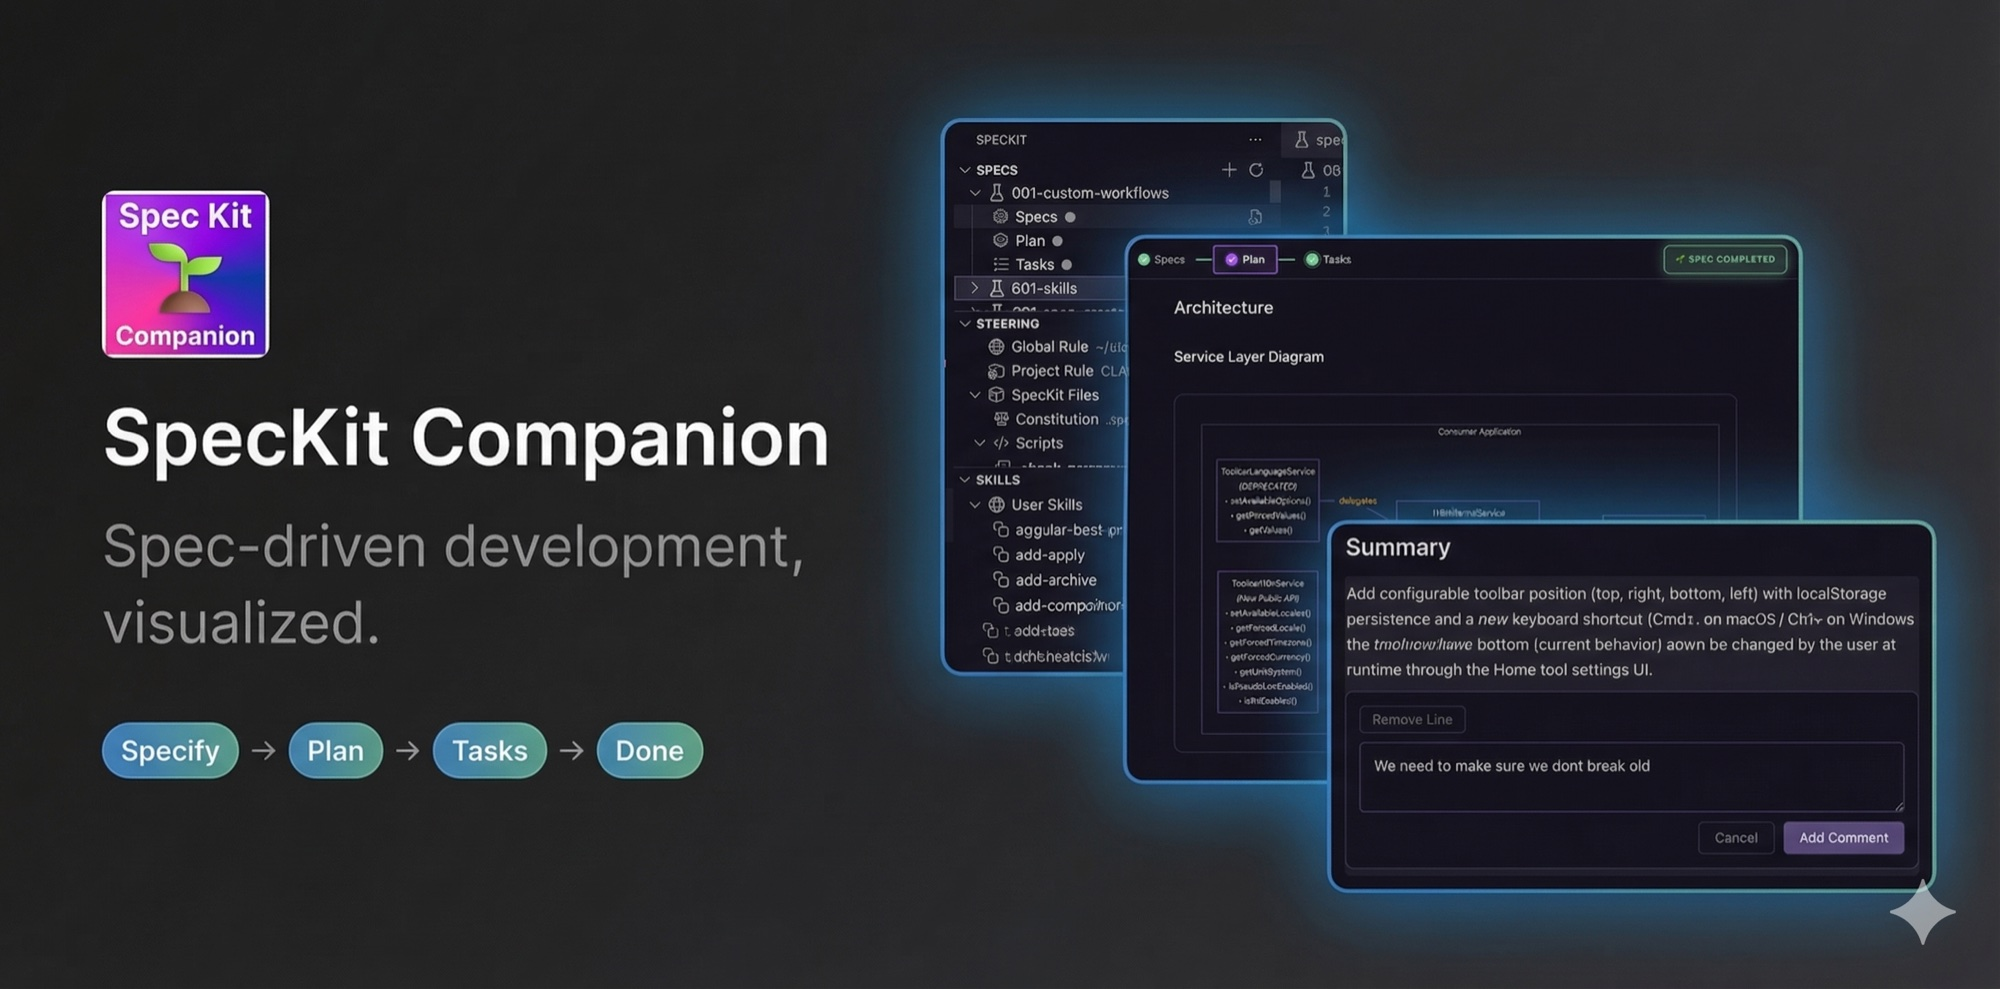
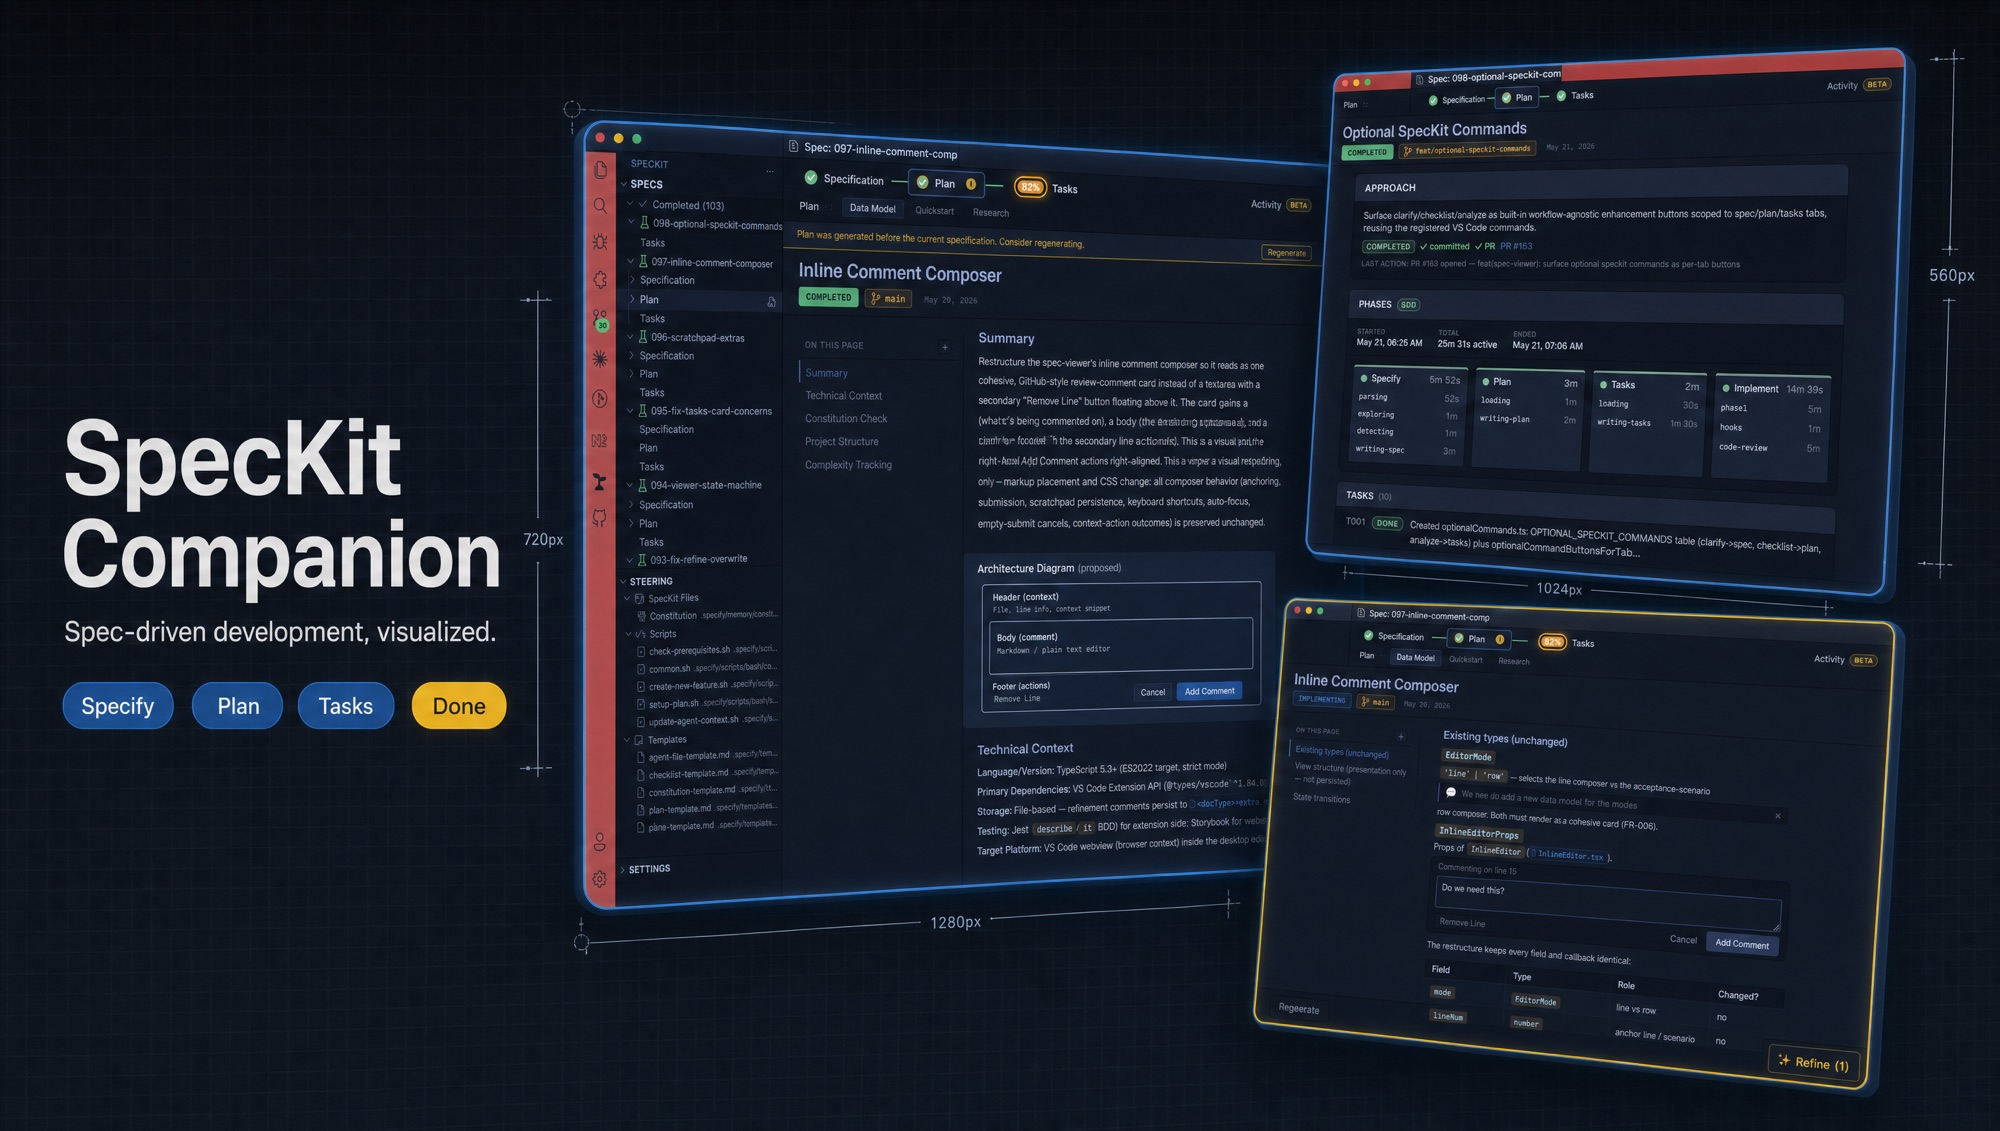
docs(readme): refresh screenshots to current viewer UI + lean image set (#174)
* docs(readme): refresh screenshots to current viewer UI, lean image set + AI hero

The README screenshots predated the viewer's facelift (title-leading header,
color-coded badges, TOC sidebar, children rail, footer state machine, Activity
panel) and over-showed the viewer in four near-identical phase shots.

- Replace the stale set with a lean four: viewer, comments, activity, create-spec.
- New AI-generated hero (hero.jpg) in the brand art-direction style.
- Add docs/screenshots/CAPTURE.md (capture standardization), hero/PROMPT.md +
  hero/README.md (hero regeneration), and VIDEO-PROMPT.md (feature-video brief).
- Tighten README: condense "Reading Specs", add an Activity Panel section, make
  Spec-Driven Phases text-only, fold the sidebar into the viewer shot.
- Remove 13 now-unreferenced screenshots.

* docs(readme): drop VIDEO-PROMPT.md (video approach deferred)

Keep hero/PROMPT.md for regenerating the hero; the demo video is on hold.

---------

Pull request: docs(readme): refresh screenshots to current viewer UI + lean image set
## Summary
- Replace stale README screenshots (Mar/Jan, predating the modern viewer — title-leading header, color badges, TOC sidebar, children rail, footer state machine, Activity panel) with a **lean four-shot set**: `viewer`, `comments`, `activity`, `create-spec`.
- New **AI-generated hero** (`hero.jpg`) in the brand art-direction style (dark blueprint, blue/yellow, no purple).
- Add reproducibility docs: `docs/screenshots/CAPTURE.md` (capture standardization), `hero/PROMPT.md` + `hero/README.md` (hero regeneration), `VIDEO-PROMPT.md` (feature-video brief).
- Tighten README copy: condense "Reading Specs", add an **Activity Panel** section, make Spec-Driven Phases text-only, fold the sidebar into the viewer shot.
- Remove **13** now-unreferenced screenshots.

## Test plan
- [ ] README preview renders every image; no broken links
- [ ] Screenshots look uniform (Dark Modern theme, consistent crops)
- [ ] Hero reads well at GitHub render width

🤖 Generated with [Claude Code](https://claude.com/claude-code)

diff --git a/docs/screenshots/CAPTURE.md b/docs/screenshots/CAPTURE.md
@@ -1,0 +1,95 @@
+# Screenshot capture guide
+
+How to capture and standardize every screenshot in the README so the set stays
+uniform and professional. The goal is **clean raw frames**: same theme, same
+zoom, same widths, cropped tight, no decoration.
+
+Follow this whenever a screenshot is retaken so the README never drifts into a
+mismatched collage again.
+
+## Environment (set once, identically for every shot)
+
+| Setting | Value | Why |
+|---------|-------|-----|
+| Color theme | **Dark Modern** (VS Code default) | Matches the extension's tested CSS variables; familiar to most users |
+| Display | Retina / HiDPI (`@2x`) | Crisp text when scaled down in the README |
+| Editor zoom | `Cmd+=` **twice** from default (reset first with `Cmd+0`) | Legible UI text at README render width — keep it identical across shots |
+| Minimap | Off (`editor.minimap.enabled: false`) | Removes clutter |
+| Breadcrumbs | Off (`breadcrumbs.enabled: false`) | Removes clutter |
+| Status bar | Off for panel-only crops (`workbench.statusBar.visible: false`) | Removes clutter |
+| Open editor tabs | Close all but the one in shot | No stray tabs in frame |
+| Activity bar | Keep visible only when it's part of the shot (sidebar overview) | Context where relevant |
+| Primary sidebar width | Fixed — drag to a consistent width and don't change between shots | Uniform sidebar proportions |
+
+Capture in the **Extension Development Host** (`F5`), not a packaged install, so
+you're shooting the current working tree.
+
+## Dimensions (display width)
+
+Crop tight to the relevant panel — no desktop wallpaper, no empty editor gutter.
+
+| Tier | Display width | Shots |
+|------|---------------|-------|
+| Full viewer | **~1600px** | `viewer`, `comments`, `activity` |
+| Narrow | **~900px** | `create-spec` |
+| Hero | **2000 × 989** | `hero.jpg` (AI-generated — see `hero/PROMPT.md`) |
+
+Captured at `@2x` these are ~3200px / ~1800px source pixels; that's expected.
+
+## Format & optimization
+
+- **PNG** (lossless) for all UI shots; **JPG** only for `hero.jpg`.
+- Optimize before committing so files stay small:
+  ```bash
+  oxipng -o max docs/screenshots/*.png      # or: pngquant --quality=80-95 ...
+  ```
+- Canonical filenames: `viewer.png`, `comments.png`, `activity.png`,
+  `create-spec.png`, `hero.jpg`, `demo.gif` / `demo.mp4`. Delete the old set
+  (`workflow-*`, `specify-*`, `sidebar-overview`, `inline-comment-*`,
+  `other-views`, `specs-tree`) once the new files land.
+
+## Content source (use the committed demo fixtures)
+
+Drive every viewer shot from the pinned demo fixtures so the rendered content is
+realistic and identical on every retake:
+
+| Fixture | State | Use for |
+|---------|-------|---------|
+| `specs/_01_demo-planned` | `planned` (spec.md + plan.md) — branch `demo/planned` | `viewer` (Plan phase + children-rail chips + diagram), `comments` |
+| `specs/_02_demo-tasked` | `ready-to-implement` (+ tasks.md) — branch `demo/tasked` | `activity` |
+
+> **Do NOT `git add` changes to these three dirs.** Capturing mutates their
+> `.spec-context.json` / files. After you're done, restore the baseline:
+> ```bash
+> git restore specs/_00_demo-specified specs/_01_demo-planned specs/_02_demo-tasked
+> ```
+
+## Per-shot recipe
+
+Each must show the **current** UI (title-leading header, color badge, branch
+chip, step tabs, children rail, TOC, footer state machine).
+
+| File | Open | Frame must include |
+|------|------|--------------------|
+| `viewer.png` | `_01_demo-planned` viewer, Plan tab — **sidebar visible** | Specs sidebar + viewer together; title-leading header + `Planned` badge + `demo/planned` chip + date pill; Spec/Plan/Tasks tabs; children-rail chips (data-model / research / quickstart); the architecture/mermaid diagram; next-step **Tasks** footer |
+| `comments.png` | `_01_demo-planned` viewer, hover a line, click `+` | GitHub-style comment card mid-use: context header, textarea with text, footer (secondary action left / Cancel + Add Comment right) |
+| `activity.png` | `_02_demo-tasked`, toggle **Activity** | Phases timeline + Approach / Tasks / Review-comments cards |
+| `create-spec.png` | `+` New Spec | Title, **Load Template**, **Workflow** picker, description + char counter, **Attach Image**, footer Cancel / **Auto Mode** / Submit |
+
+These four also feed the AI assets: `viewer` + `comments` + `activity` are the
+three hero inputs (`hero/PROMPT.md`), and the resulting `hero.jpg` seeds the demo
+video (`VIDEO-PROMPT.md`).
+
+## Hero & video
+
+`hero.jpg` and `demo.gif`/`demo.mp4` are **AI-generated**, not captured. Build the
+hero from the three shots above via `hero/PROMPT.md`, then seed the video from
+`hero.jpg` via `VIDEO-PROMPT.md`.
+
+## Checklist before committing
+
+- [ ] All shots use Dark Modern at the same zoom.
+- [ ] Widths match the tier table; cropped tight.
+- [ ] Canonical filenames; old set deleted.
+- [ ] PNGs optimized; hero shows no purple; video loops cleanly.
+- [ ] `git status` shows **no** staged changes under the demo fixtures.

diff --git a/README.md b/README.md
@@ -18,7 +18,7 @@ The spec workspace for developers running AI agents through Spec-Driven Developm
 
 ## Why it exists
 
-**Review AI-generated specs the way you review code.** Add inline comments on specific lines, refine requirements, and catch a vague requirement before the AI turns it into 200 lines of wrong code. Every comment you submit is also captured as a markdown entry in a per-document scratchpad, so the history is durable across sessions.
+**Review AI-generated specs the way you review code.** Add inline comments on specific lines, refine requirements, and catch a vague requirement before the AI turns it into 200 lines of wrong code. Every comment persists to the spec's `.spec-context.json` the moment you add it, so an in-progress review is durable across sessions and committable to source control.
 
 **Plug any AI assistant into any spec-driven workflow.** Eight providers ship today (Claude Code, Gemini, GitHub Copilot, Codex, Qwen, OpenCode, IDE Chat, Claude in VS Code), and the workflow engine accepts custom phases, commands, and sub-documents. Drop in [Agent Teams Lite](https://github.com/Gentleman-Programming/agent-teams-lite), your own SDD process, or anything that takes commands and produces markdown.
 
@@ -30,14 +30,14 @@ The spec workspace for developers running AI agents through Spec-Driven Developm
 
 Guide your features through structured phases with a dedicated editor that renders markdown specs, shows phase progress, and provides one-click actions for each step. Mermaid diagrams render inline with zoom controls for navigating complex diagrams. After each action, a toast confirms the result and the viewer auto-advances to the next phase.
 
-![Workflow Editor](https://raw.githubusercontent.com/alfredoperez/speckit-companion/main/docs/screenshots/workflow-spec.png)
-*Workflow editor. One click moves a feature from Specify to Plan to Tasks to Done. Markdown stays in your repo, never on a server.*
+![Spec viewer](https://raw.githubusercontent.com/alfredoperez/speckit-companion/main/docs/screenshots/viewer.png)
+*The spec viewer. Step tabs, sub-document chips, an inline diagram, and a footer button that advances Specify → Plan → Tasks → Done. Markdown stays in your repo, never on a server.*
 
 ### Inline Review Comments
 
 Review spec documents with inline comments. Add feedback directly on specific lines, refine requirements, and collaborate on specs before implementation begins. Each comment is **persisted to the spec's `.spec-context.json` the moment you add or remove it** — not only when you refine — so an in-progress review survives closing the tab, is committable, and can be picked up later (next session, another machine, or another reviewer after a pull). When you click the **Refine** button, that document's pending comments are dispatched to the AI for a direct, in-place edit of the source and then marked *applied* (kept as history — no separate files).
 
-![Inline Comments](https://raw.githubusercontent.com/alfredoperez/speckit-companion/main/docs/screenshots/inline-comment-dialog.png)
+![Inline Comments](https://raw.githubusercontent.com/alfredoperez/speckit-companion/main/docs/screenshots/comments.png)
 *Inline review comments. Catch a vague requirement on line 12 before the AI turns it into 200 lines of wrong code.*
 
 ### Persistent, Resumable Comments
@@ -55,22 +55,12 @@ Create new specs with a dedicated dialog. Write a detailed description, select y
 
 ### Spec-Driven Phases
 
-Each feature flows through four phases:
+Each feature flows through four phases, each a one-click footer action in the viewer above:
 
-**Specify**: Define requirements with user stories and acceptance scenarios.
-
-![Spec Phase](https://raw.githubusercontent.com/alfredoperez/speckit-companion/main/docs/screenshots/specify-spec.png)
-*Specify phase. User stories, acceptance scenarios, and edge cases captured before any code is written.*
-
-**Plan**: Create the technical design with research, data models, and implementation strategy.
-
-![Plan Phase](https://raw.githubusercontent.com/alfredoperez/speckit-companion/main/docs/screenshots/workflow-plan.png)
-*Plan phase. Architecture, data models, and research grouped under a single step with sub-document chips.*
-
-**Tasks**: Generate an implementation checklist with progress tracking and parallel execution markers.
-
-![Tasks Phase](https://raw.githubusercontent.com/alfredoperez/speckit-companion/main/docs/screenshots/workflow-tasks.png)
-*Tasks phase. Generated checklist with parallel-execution markers and live progress.*
+- **Specify** — define requirements with user stories and acceptance scenarios before any code is written.
+- **Plan** — create the technical design: architecture, data models, and research, grouped under one step with sub-document chips.
+- **Tasks** — generate an implementation checklist with parallel-execution markers and live progress.
+- **Done** — mark the spec complete (or archive it) once implementation lands.
 
 ### Reading Specs
 
@@ -83,9 +73,23 @@ The spec viewer is built for fast scanning of long-form specs:
 - **Table of contents**: sticky outline column on the left of the content area. Defaults to h2-only (so phase-heavy `tasks.md` reads as a clean ~7-entry list); a small `+` toggle expands h3 subsections when needed. Auto-hides on narrow panes.
 - **Quiet content**: when the structured header has the metadata, in-content duplicates (the `Input:` block, repeated branch chips, literal `Slug:`/`Date:` paragraphs) are suppressed so the body is just the spec content.
 - **Diagrams**: wide mermaid diagrams scroll horizontally inside the prose column instead of bleeding past it. Each diagram has its own `−` / Reset / `+` zoom controls.
-- **Activity panel**: an `Activity` toggle on the right side of the navigation bar swaps the markdown pane for a card-stack overview of everything `.spec-context.json` carries — *Approach* (one-line strategy + status pill + PR link + commit/PR checkpoints + last action), *Phases* (a horizontal timeline with an overall *started · total · ended* header, per-step duration, and per-substep timing; the author badge shows once at spec start), *Tasks* (per-`T###` status, summary, file chips, inline concerns), *Decisions*, *Concerns*, *Review comments* (every persisted comment grouped by document with a pending/applied status badge, jump-to-line, and a per-document **Run refinement** button), and *Files touched* (clickable). Each card hides itself when its data is missing, so a lean speckit-style spec collapses to just *Phases*. Visibility is gated by the `speckit.viewer.activityPanel` setting — `"off"` (hide toggle), `"beta"` (default; toggle shows a *beta* pill), `"on"` (toggle without the pill). The Phases card derives all timing from the transition log and reports **active time** — gaps longer than a few minutes between recorded activity are treated as idle and capped, so an overnight pause doesn't inflate a step's elapsed time. Completed phases show real durations, the terminal phase finalizes (no longer reads as in-flight forever), the in-flight step pulses, per-step start dates appear only on multi-day specs, and repeated substeps (e.g. the implement loop's `phase1`) collapse to one row. While Activity is open, the stale sub-document sub-navigation row is hidden.
-- **Quiet, intentional footer**: the viewer footer surfaces only what fits the current moment. When a step is idle it shows `Regenerate` and a forward button labelled with the next phase (`Plan` / `Tasks` / `Implement` / `Complete`). **While a step is generating, the forward button is disabled and reads `Generating <step>…` with a spinner** — it only re-enables to the next phase once that step's artifact actually lands on disk (a content check, not just the click), so the footer never advances ahead of the work. A `Mark step complete` button and a recovery timeout keep it from getting stuck if auto-detection never fires. `Archive` and `Mark Completed` only appear once the spec reaches a closure-eligible stage (`ready-to-implement` and beyond), and the SDD `Auto` button has moved to the **Create New Spec** form (next to `Submit`) so it's the explicit first-time choice rather than a viewer-side surprise. The `Edit Source` button is gone too — use the sidebar's inline `Open Source File` action instead. See [`docs/viewer-states.md`](./docs/viewer-states.md) for the full footer state matrix.
-- **Optional SpecKit commands per tab**: SpecKit's three optional refinement commands surface as one-click footer buttons on the tab where each is most useful — **Clarify** on the Spec tab, **Checklist** on the Plan tab, and **Analyze** on the Tasks tab (right before implementing). They require no configuration, sit alongside any custom-command buttons you've defined, and run the same command you'd get from the Command Palette. A custom command with the same id takes precedence so your overrides always win. Once the spec reaches the closure gate (the footer is offering **Mark Completed** / **Reactivate**), these refinement buttons disappear — there's nothing left to refine.
+- **Activity panel**: an `Activity` toggle swaps the markdown pane for a card-stack overview of everything `.spec-context.json` carries. See [Activity Panel](#activity-panel) below.
+- **Quiet, intentional footer**: the footer surfaces only what fits the moment — `Regenerate` plus a forward button labelled with the next phase (`Plan` / `Tasks` / `Implement` / `Complete`). While a step generates, that button is disabled and reads `Generating <step>…` until the artifact actually lands on disk, so the footer never advances ahead of the work. `Archive` and `Mark Completed` appear only once the spec is closure-eligible (`ready-to-implement` and beyond). See [`docs/viewer-states.md`](./docs/viewer-states.md) for the full footer state matrix.
+- **Optional SpecKit commands per tab**: SpecKit's three refinement commands surface as one-click footer buttons where each is most useful — **Clarify** on Spec, **Checklist** on Plan, **Analyze** on Tasks. No configuration required; a custom command with the same id wins. They disappear once the spec reaches the closure gate.
+
+### Activity Panel
+
+Toggle **Activity** in the viewer's nav bar to swap the markdown pane for a card-stack overview of everything `.spec-context.json` carries:
+
+- **Approach** — one-line strategy, status pill, PR link, and commit/PR checkpoints.
+- **Phases** — a horizontal timeline reporting **active time** per step and substep (idle gaps are capped, so an overnight pause doesn't inflate a step); the in-flight step pulses and the terminal phase finalizes.
+- **Tasks** — per-`T###` status, summary, file chips, and inline concerns.
+- **Decisions**, **Concerns**, **Review comments** (every persisted comment grouped by document, with jump-to-line and a per-document **Run refinement** button), and **Files touched** (clickable).
+
+Each card hides itself when its data is missing, so a lean speckit-style spec collapses to just *Phases*. Visibility is gated by `speckit.viewer.activityPanel` — `"off"`, `"beta"` (default; toggle shows a *beta* pill), or `"on"`.
+
+![Activity Panel](https://raw.githubusercontent.com/alfredoperez/speckit-companion/main/docs/screenshots/activity.png)
+*Activity panel. The Phases timeline plus Approach, Tasks, and Review-comments cards — one overview of everything the spec's context file tracks.*
 
 ### Custom Workflows & Commands
 
@@ -101,10 +105,7 @@ Specs are grouped into three collapsible sections, each with a count in the head
 
 When a step command is running, the spec shows a spinner and a live elapsed timer; a step-complete notification fires when it finishes (toggle via `speckit.notifications.stepComplete`).
 
-For the full reference (lifecycle button matrix, badge tier mapping, transition logging, all icon meanings), see [`docs/sidebar.md`](./docs/sidebar.md).
-
-![Sidebar Overview](https://raw.githubusercontent.com/alfredoperez/speckit-companion/main/docs/screenshots/sidebar-overview.png)
-*Sidebar at a glance. Active, Completed, and Archived spec groups with counts; steering, agents, skills, and hooks one click away.*
+The sidebar is visible alongside the viewer in the screenshot above. For the full reference (lifecycle button matrix, badge tier mapping, transition logging, all icon meanings), see [`docs/sidebar.md`](./docs/sidebar.md).
 
 ### Offline-First UI
 

diff --git a/docs/screenshots/hero/PROMPT.md b/docs/screenshots/hero/PROMPT.md
@@ -1,0 +1,52 @@
+# Hero compositing prompt (image-edit)
+
+The README hero is a **composite of three real screenshots**, assembled in the
+brand art-direction style (`apps/presentations/ART-DIRECTION.md`). Capture the
+three shots first, then feed them **plus the prompt below** into an image-edit
+model that accepts input images (Gemini image edit / "nano banana", GPT image,
+etc.).
+
+## The three input screenshots
+
+Capture all three in **Dark Modern** (per `../CAPTURE.md`) so there's no purple —
+the art direction bans it, and the old hero's purple came from the old theme.
+
+1. **`viewer.png`** — VS Code **sidebar + spec viewer together**, on a spec's
+   **Plan** phase showing an architecture/diagram (the "something cool" product
+   shot). Drive it from `specs/_01_demo-planned`.
+2. **`comments.png`** — the **inline review-comment composer** mid-use (a comment
+   being added on a spec line).
+3. **`activity.png`** — the **Activity panel** (Phases timeline + Approach /
+   Tasks / Review-comments cards). Drive it from `specs/_02_demo-tasked`.
+
+## The prompt
+
+> **Compose the THREE attached screenshots into one wide hero banner (2:1, ~2000×989) for a developer tool called SpecKit Companion.**
+>
+> Inputs: (1) a VS Code sidebar + spec-viewer workspace showing a spec's Plan phase with an architecture diagram; (2) an inline review-comment card being added on a spec line; (3) an Activity panel with a phases timeline and cards.
+>
+> **Layout & style:**
+> - Near-black background **#0F0F13** with a faint blueprint grid of thin **#2A2A3A** lines.
+> - Arrange the three screenshots as overlapping, slightly **isometric slabs** (gentle 2:1 tilt), exploded apart with depth: the **workspace** shot as the large slab center/back, the **comment card** floating in front lower-right, the **Activity panel** floating upper-right. Keep each screenshot **sharp, legible, and unaltered — do not redraw or invent UI text.**
+> - Give each slab rounded corners (~14px), a 1px cool edge with a soft **blue glow (#60A5FA)**, and a subtle drop shadow so they read as floating layers.
+> - Add thin **hairline connectors and small dimension ticks** around the slabs (architectural blueprint aesthetic). Place a single small **yellow #FACC15** highlight accent on one frontmost slab only.
+> - Restrained palette: blues **#60A5FA** and **#3B82F6** plus the one yellow accent. **Absolutely no purple or violet anywhere.**
+> - Cluster the slabs on the **RIGHT ~60%**, leaving generous empty **negative space on the LEFT for a title.**
+> - Mood: editorial-technical, precise, calm, premium. No glossy 3D render, no photorealism, no neon overload, no extra invented text or logos.
+>
+> Output: wide 2:1 banner.
+
+## Title
+
+Image models often garble small text, so either reserve the left for the title
+(the prompt already does) and overlay it afterward in any editor, or append this
+to the prompt and verify it rendered cleanly:
+
+> *On the left negative space, set the title "SpecKit Companion" in a clean
+> geometric sans, with "Companion" in a sketchy hand-drawn marker highlighted in
+> yellow #FACC15; a subtitle below it, and a row of pill chips Specify → Plan →
+> Tasks → Done — off-white #E8E8F0, blue pills, the last pill yellow #FACC15.*
+
+## Output
+
+Save the final to `../hero.jpg` at ~2000×989. Optimize to ~300–400KB.

diff --git a/docs/screenshots/hero/README.md b/docs/screenshots/hero/README.md
@@ -1,0 +1,35 @@
+# README hero
+
+The README hero (`../hero.jpg`) is **AI-generated** from three real screenshots,
+composed in the brand art-direction style (`apps/presentations/ART-DIRECTION.md`
+in the alfredo-perez.dev repo). See **`PROMPT.md`** for the image-edit prompt.
+
+## Inputs (the three key screenshots)
+
+These are the same shots used in the README body — capture once, use for both.
+Capture in **Dark Modern** (per `../CAPTURE.md`) so there's no purple. They live
+in `../` (the `docs/screenshots/` folder):
+
+1. `../viewer.png` — VS Code sidebar + spec viewer, **Plan** phase with a diagram
+   (`_01_demo-planned`).
+2. `../comments.png` — the inline review-comment composer mid-use.
+3. `../activity.png` — the Activity panel (Phases timeline + cards)
+   (`_02_demo-tasked`).
+
+## Build
+
+Feed the three screenshots + `PROMPT.md` to an image-edit model (Gemini image
+edit / "nano banana", GPT image, etc.). Save the result to `../hero.jpg` at
+~2000×989, optimized to ~300–400KB. The video (`../demo.gif` / `../demo.mp4`) is
+then seeded from this hero — see `../VIDEO-PROMPT.md`.
+
+## Tokens (from ART-DIRECTION.md — no purple)
+
+| Role | Hex |
+|------|-----|
+| Background | `#0F0F13` |
+| Grid / hairlines | `#2A2A3A` |
+| Accent (blue) | `#60A5FA` |
+| Deep blue | `#3B82F6` |
+| Highlight (yellow) | `#FACC15` |
+| Ink | `#E8E8F0` |